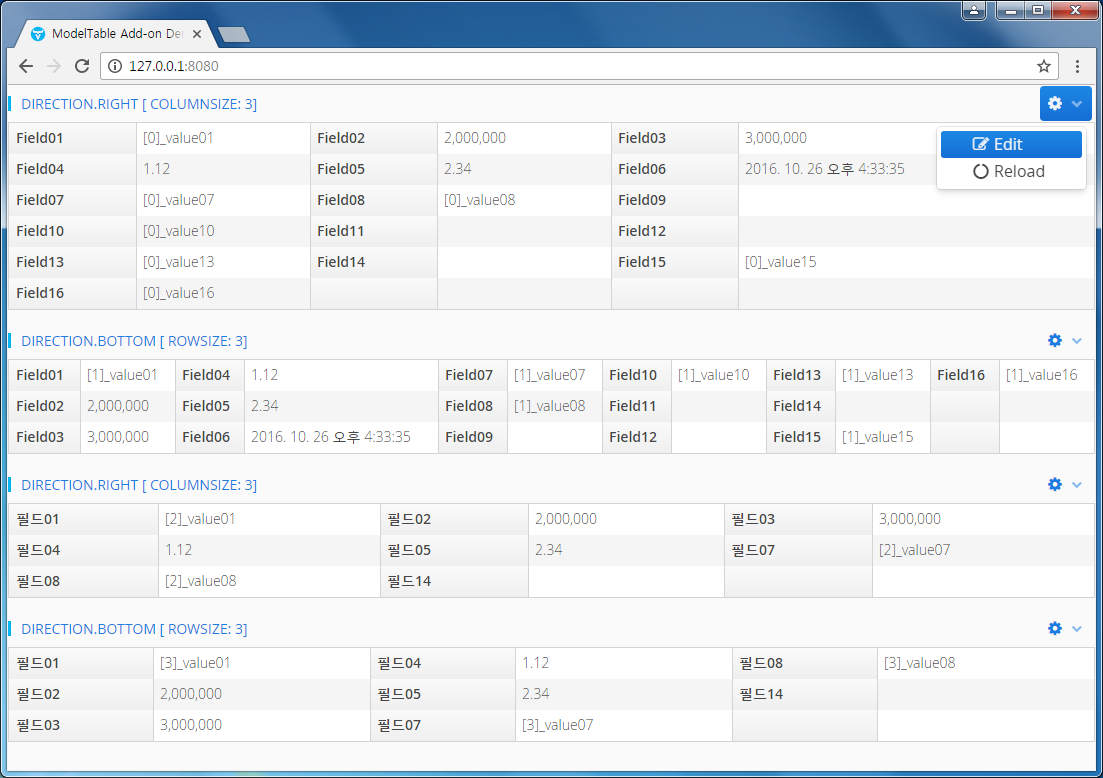
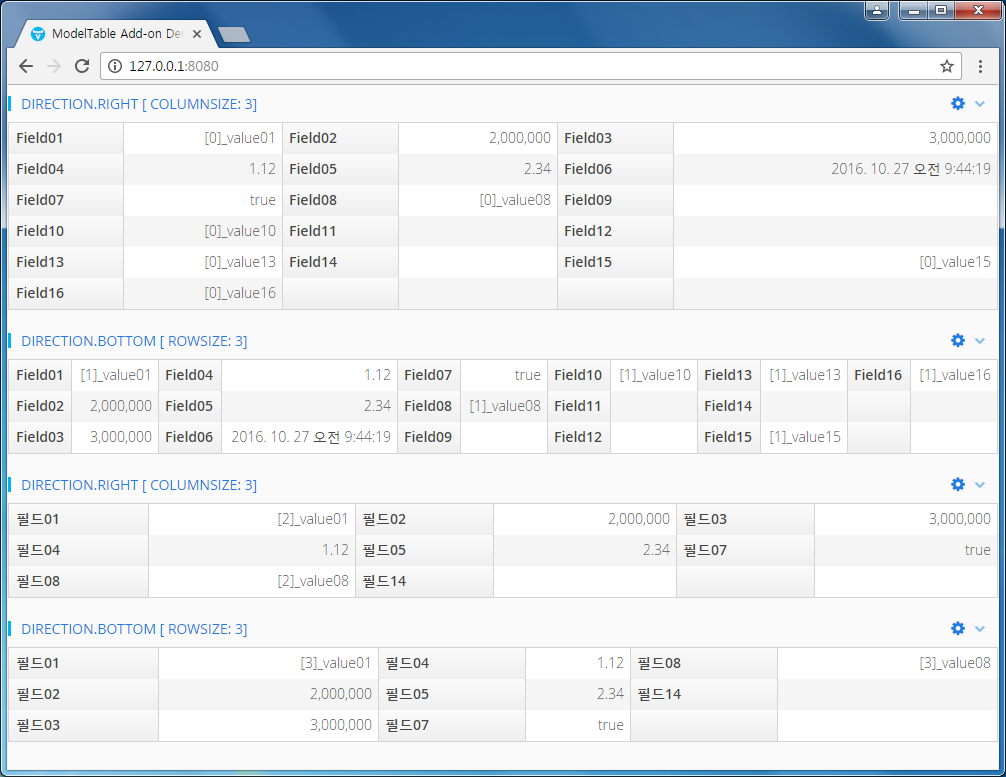
version up

diff --git a/modeltable-demo/src/main/java/com/vaadin/addon/modeltable/DemoUI.java b/modeltable-demo/src/main/java/com/vaadin/addon/modeltable/DemoUI.java
@@ -19,26 +19,26 @@ import com.vaadin.ui.VerticalLayout;
 @SuppressWarnings("serial")
 public class DemoUI extends UI{
 
-	public static Map<Integer, ItemField> itemFieldMap = new HashMap<>();
+	public static Map<Integer, Item> itemFieldMap = new HashMap<>();
 
 	@Override
 	protected void init(VaadinRequest request){
 
-		ModelTable<ItemField> table1 = buildModelTable(0);
+		ModelTable<Item> table1 = buildModelTable(0);
 		table1.setTitleCaption("Direction.RIGHT [ ColumnSize: " + 3 + "]");
 		table1.setItemDirection(ModelTable.Direction.RIGHT, 3);
 
-		ModelTable<ItemField> table2 = buildModelTable(1);
+		ModelTable<Item> table2 = buildModelTable(1);
 		table2.setTitleCaption("Direction.BOTTOM [ RowSize: " + 3 + "]");
 		table2.setItemDirection(ModelTable.Direction.BOTTOM, 3);
 
-		ModelTable<ItemField> table3 = buildModelTable(2);
+		ModelTable<Item> table3 = buildModelTable(2);
 		table3.setTitleCaption("Direction.RIGHT [ ColumnSize: " + 3 + "]");
 		table3.setItemDirection(ModelTable.Direction.RIGHT, 3);
 		table3.setVisibleColumns("field01", "field02", "field03", "field04", "field05", "field07", "field08", "field14");
 		table3.setColumnHeaders("필드01", "필드02", "필드03", "필드04", "필드05", "필드07", "필드08", "필드14");
 
-		ModelTable<ItemField> table4 = buildModelTable(3);
+		ModelTable<Item> table4 = buildModelTable(3);
 		table4.setTitleCaption("Direction.BOTTOM [ RowSize: " + 3 + "]");
 		table4.setItemDirection(ModelTable.Direction.BOTTOM, 3);
 		table4.setVisibleColumns("field01", "field02", "field03", "field04", "field05", "field07", "field08", "field14");
@@ -55,15 +55,15 @@ public class DemoUI extends UI{
 		setHeightUndefined();
 	}
 
-	private ModelTable<ItemField> buildModelTable(int dataIndex) {
-		ItemField itemField = itemFieldMap.get(dataIndex);
-		ModelTable<ItemField> modelTable = new ModelTable<>(ItemField.class);
-		modelTable.setItem(itemField);
+	private ModelTable<Item> buildModelTable(int dataIndex) {
+		Item item = itemFieldMap.get(dataIndex);
+		ModelTable<Item> modelTable = new ModelTable<>(Item.class);
+		modelTable.setItem(item);
 		modelTable.addMenuItem("Edit", FontAwesome.EDIT, new MenuBar.Command() {
 			@Override
 			public void menuSelected(MenuBar.MenuItem menuItem) {
-				itemField.setField01("Edit :" + dataIndex);
-				modelTable.setItem(itemField);
+				item.setField01("Edit :" + dataIndex);
+				modelTable.setItem(item);
 				Notification.show("Edit : " + dataIndex);
 			}
 		});

diff --git a/modeltable-demo/src/main/java/com/vaadin/addon/modeltable/Application.java b/modeltable-demo/src/main/java/com/vaadin/addon/modeltable/Application.java
@@ -23,20 +23,20 @@ public class Application implements CommandLineRunner {
     @Override
     public void run(String... strings) throws Exception {
         for(int i=0; i <= 3; i++) {
-            ItemField itemField = new ItemField();
-            itemField.setField01("[" + i+ "]_value01");
-            itemField.setField02(2000000);
-            itemField.setField03(3000000L);
-            itemField.setField04(1.12f);
-            itemField.setField05(2.34d);
-            itemField.setField06(new Date());
-            itemField.setField07("[" + i+ "]_value07");
-            itemField.setField08("[" + i+ "]_value08");
-            itemField.setField10("[" + i+ "]_value10");
-            itemField.setField13("[" + i+ "]_value13");
-            itemField.setField15("[" + i+ "]_value15");
-            itemField.setField16("[" + i+ "]_value16");
-            DemoUI.itemFieldMap.put(i, itemField);
+            Item item = new Item();
+            item.setField01("[" + i+ "]_value01");
+            item.setField02(2000000);
+            item.setField03(3000000L);
+            item.setField04(1.12f);
+            item.setField05(2.34d);
+            item.setField06(new Date());
+            item.setField07(true);
+            item.setField08("[" + i+ "]_value08");
+            item.setField10("[" + i+ "]_value10");
+            item.setField13("[" + i+ "]_value13");
+            item.setField15("[" + i+ "]_value15");
+            item.setField16("[" + i+ "]_value16");
+            DemoUI.itemFieldMap.put(i, item);
         }
     }
 

diff --git a/modeltable-demo/src/main/java/com/vaadin/addon/modeltable/Item.java b/modeltable-demo/src/main/java/com/vaadin/addon/modeltable/Item.java
@@ -6,7 +6,7 @@ import java.util.Date;
 /**
  * Created by gmind on 2016-10-21.
  */
-public class ItemField implements Serializable {
+public class Item implements Serializable {
 
     private static final long serialVersionUID = 1L;
 
@@ -16,7 +16,7 @@ public class ItemField implements Serializable {
     private Float field04;
     private Double field05;
     private Date field06;
-    private String field07;
+    private boolean field07;
     private String field08;
     private String field09;
     private String field10;
@@ -75,11 +75,11 @@ public class ItemField implements Serializable {
         this.field06 = field06;
     }
 
-    public String getField07() {
+    public boolean isField07() {
         return field07;
     }
 
-    public void setField07(String field07) {
+    public void setField07(boolean field07) {
         this.field07 = field07;
     }
 

diff --git a/modeltable-addon/src/main/java/com/vaadin/addon/modeltable/ModelTable.java b/modeltable-addon/src/main/java/com/vaadin/addon/modeltable/ModelTable.java
@@ -271,6 +271,7 @@ public class ModelTable<T> extends VerticalLayout {
         for(int id=0; id < columnMaxSize; id++) {
             targetTable.addContainerProperty("key_"+id, Object.class, null);
             targetTable.addContainerProperty("value_"+id, Object.class, null);
+            targetTable.setColumnAlignment("value_"+id, Table.Align.RIGHT);
         }
 
         targetTable.setCellStyleGenerator(new Table.CellStyleGenerator() {
